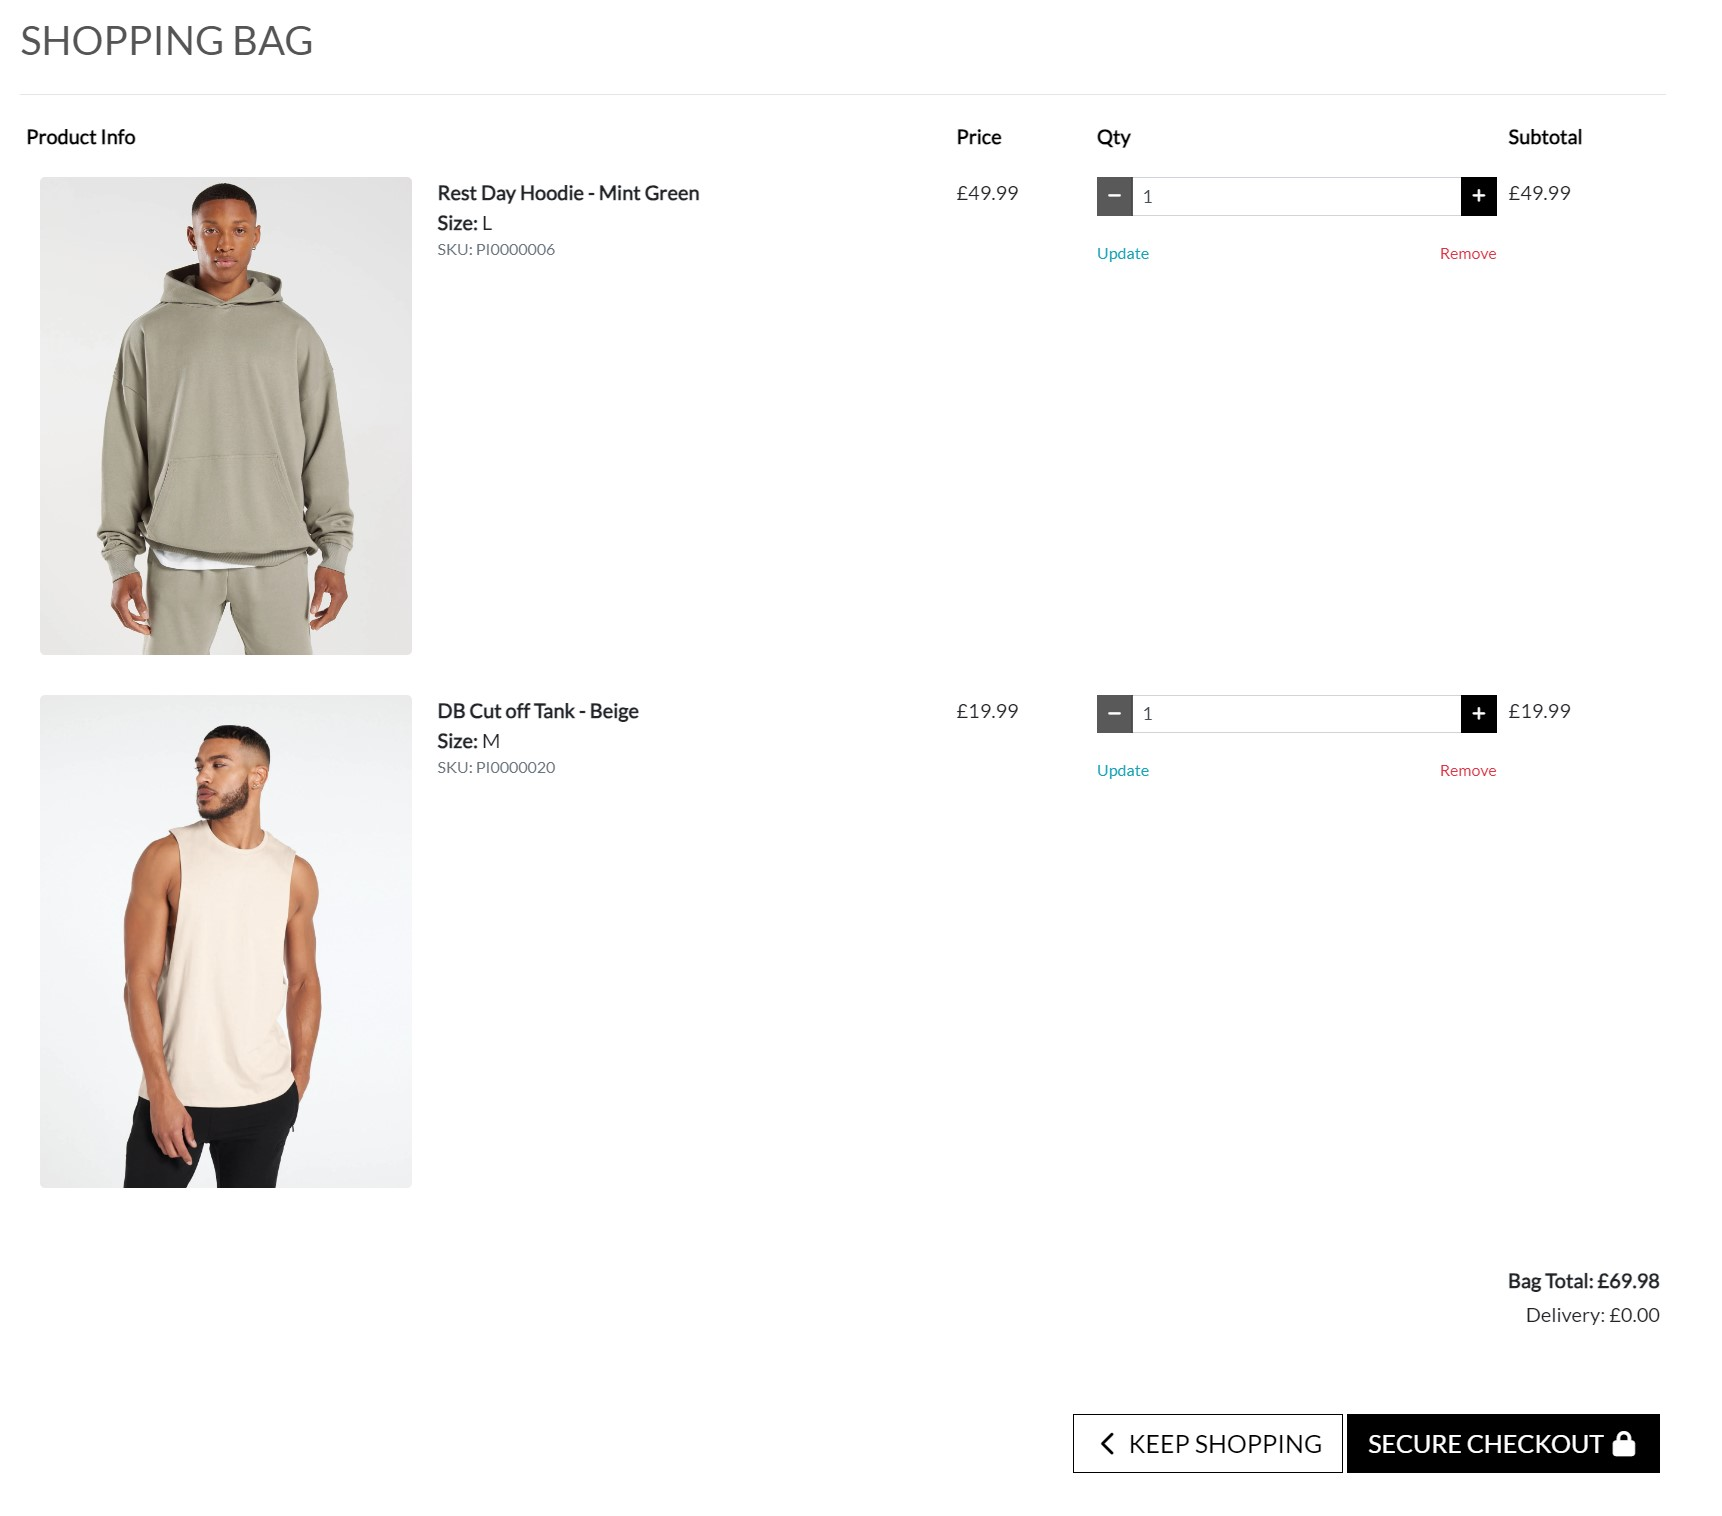
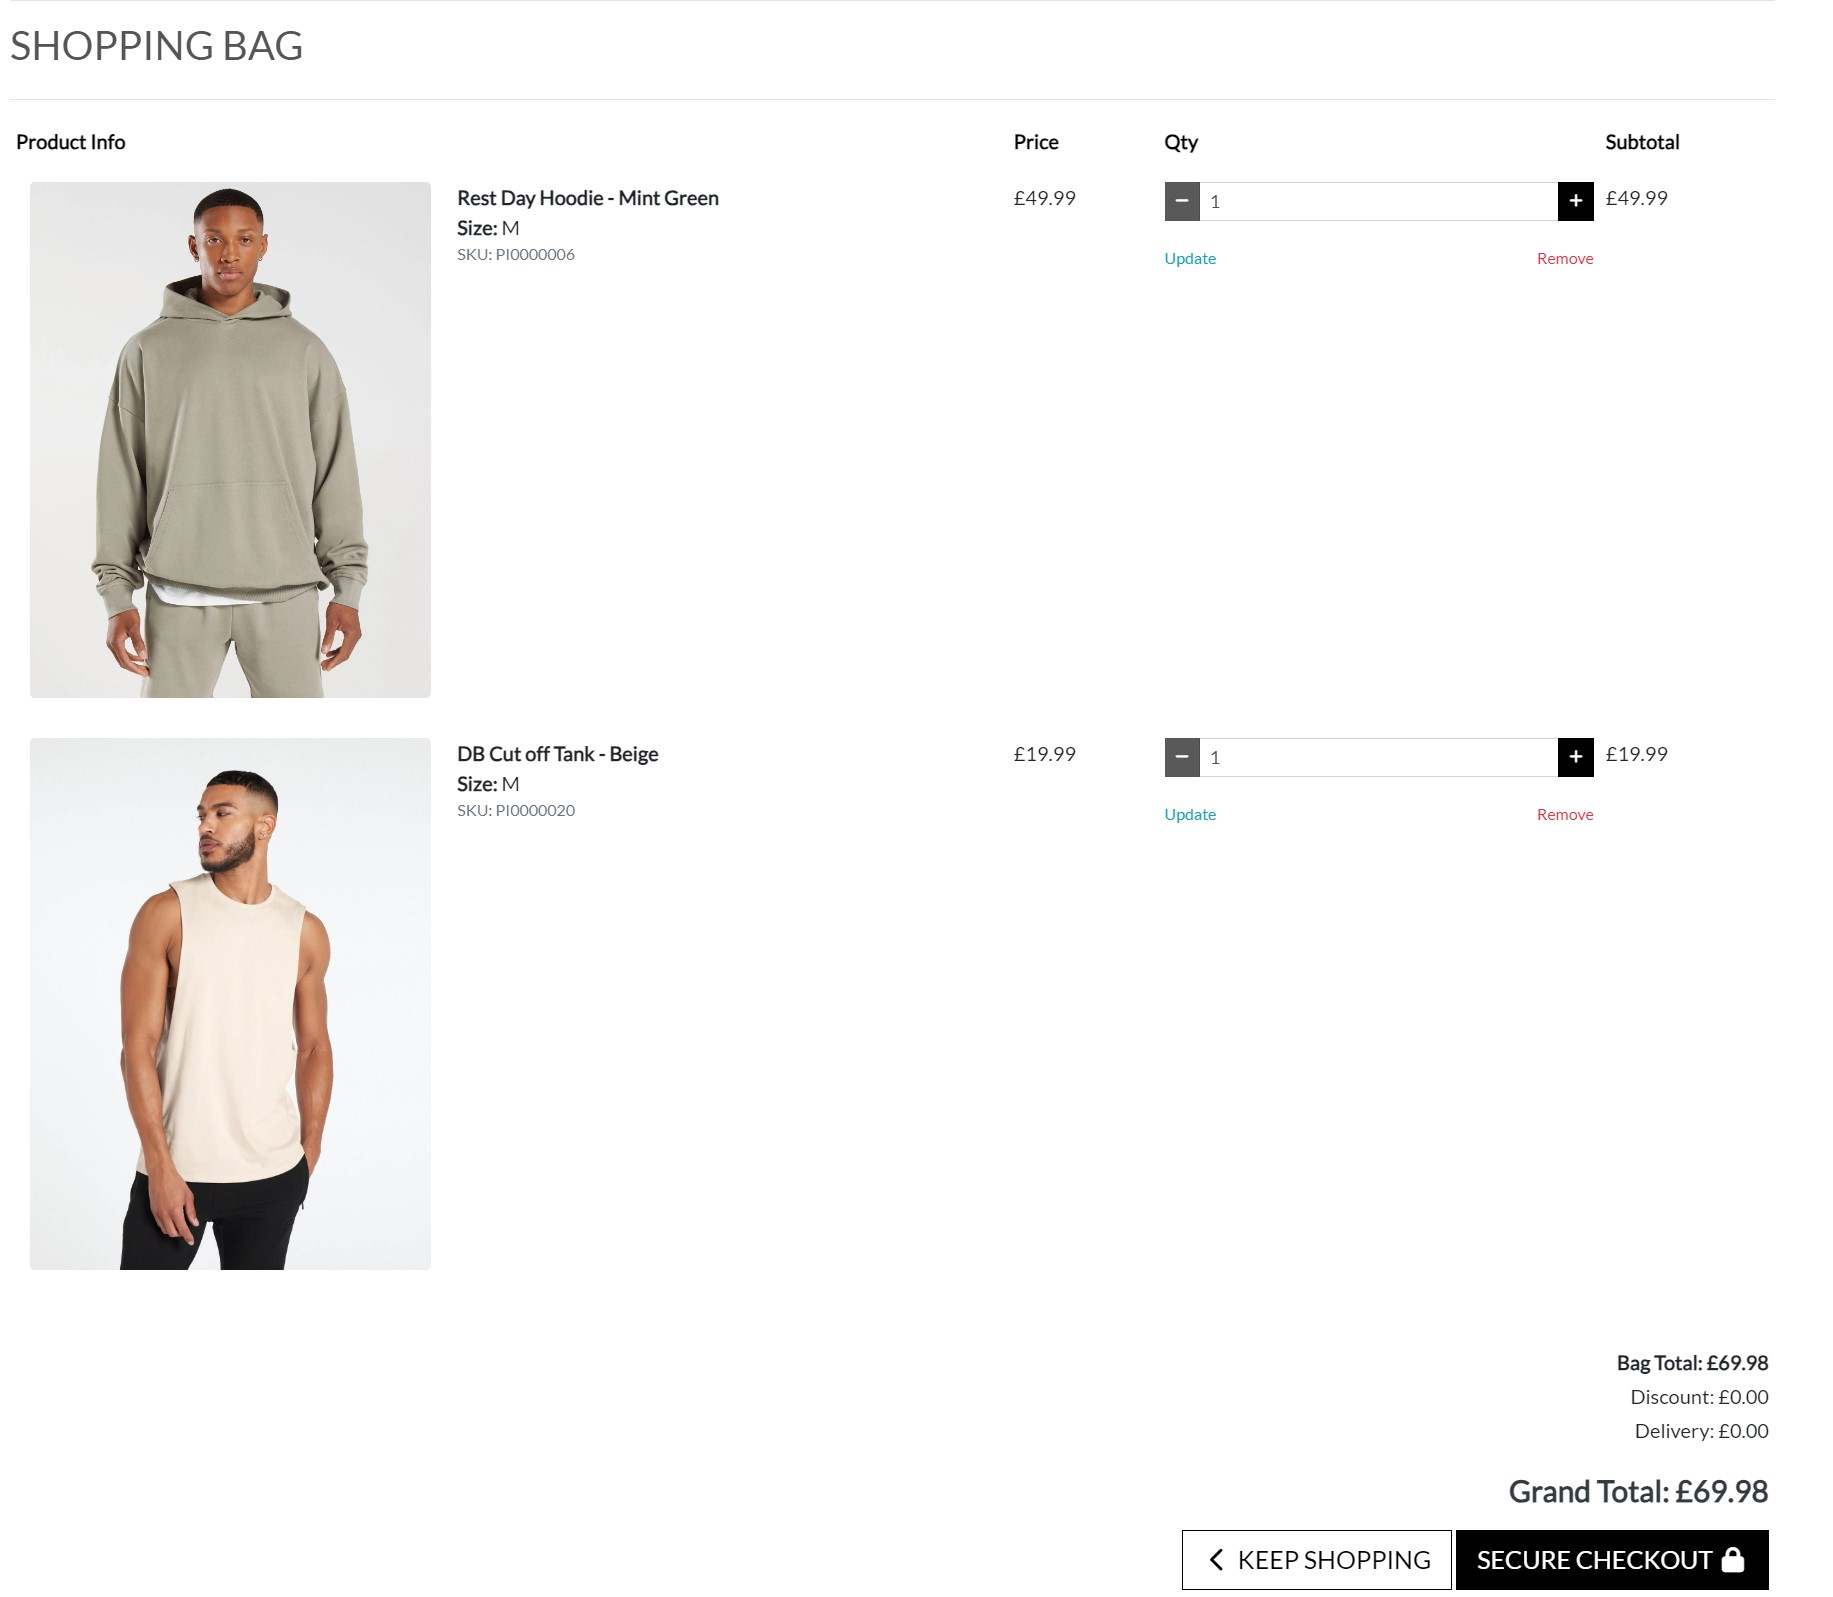
Updated the bag and checkout in the features sections

diff --git a/README.md b/README.md
@@ -579,6 +579,16 @@ Multiple apps and classes/models were created for the project, each one supporti
     ![Screenshot of bag - removed item](./readme_assets/img/bag-remove.jpg)<br>
     *Screenshot of bag - removed item*
 
+* If the shopper spends over £120, as shown on the ticker at the top of the page. 
+
+    ![Screenshot of bag - discount spend](./readme_assets/img/discount-spend.jpg)<br>
+    *Screenshot of discount spend info*
+
+* They will get 10% off their order total.
+
+    ![Screenshot of bag - discount spend applied](./readme_assets/img/bag-discount-spend.jpg)<br>
+    *Screenshot of bag - discount spend *
+
 * On smaller screens the bag stacks for a better user experience, with the total being placed on top. A back to top button has been added for ease when making a big purchase! 
 
     ![Screenshot of bag - smaller screens](./readme_assets/img/bag-smaller-screen.jpg) <br>
@@ -605,6 +615,32 @@ Multiple apps and classes/models were created for the project, each one supporti
 
     ![Screenshot of checkout - invalid card](./readme_assets/img/checkout-invalid-card.jpg) <br>
     *Screenshot of checkout - invalid card*
+
+* There is also a discount code feature on the on the checkout page for any ongoing campaigns. Along with a tip feature for the user to donate towards DreamBuild's sponsored charity. 
+
+    ![Screenshot of checkout - discount code and tip](./readme_assets/img/checkout-discount-tip.jpg) <br>
+    *Screenshot of checkout - discount code and tip*
+
+* If the user enters a valid code (**XMAS20**) they'll get a success message and the discount code will be viewable, and also be able to delete it. 
+
+    ![Screenshot of checkout - discount code valid](./readme_assets/img/checkout-discount-code.jpg) ![Screenshot of checkout - discount code valid](./readme_assets/img/checkout-discount-code-valid.jpg)<br>
+    *Screenshot of checkout - valid discount code*
+
+* The user will get an error message if they enter an incorrect code. 
+
+    ![Screenshot of checkout - discount code invalid](./readme_assets/img/checkout-discount-code-invalid.jpg) ![Screenshot of checkout - discount code invlaid](./readme_assets/img/checkout-discount-code-invalid2.jpg)<br>
+    *Screenshot of checkout - invalid discount code*
+
+* For the tip feature there is four options from a dropdown menu, with no tip being set to default. When no tip is selected it isn't visible on the totals line. 
+
+    ![Screenshot of checkout - tip options](./readme_assets/img/checkout-tip-notip.jpg) <br>
+    *Screenshot of checkout - tip options*
+
+* When a tip is applied, the user will get a success message. and tip will be visible on the totals line. 
+
+    ![Screenshot of checkout - tip applied success](./readme_assets/img/checkout-tip-success.jpg) <br>
+    ![Screenshot of checkout - tip applied](./readme_assets/img/checkout-tip-applied.jpg) <br>
+    *Screenshot of checkout - tip applied successfully*
 
 <hr>
 
